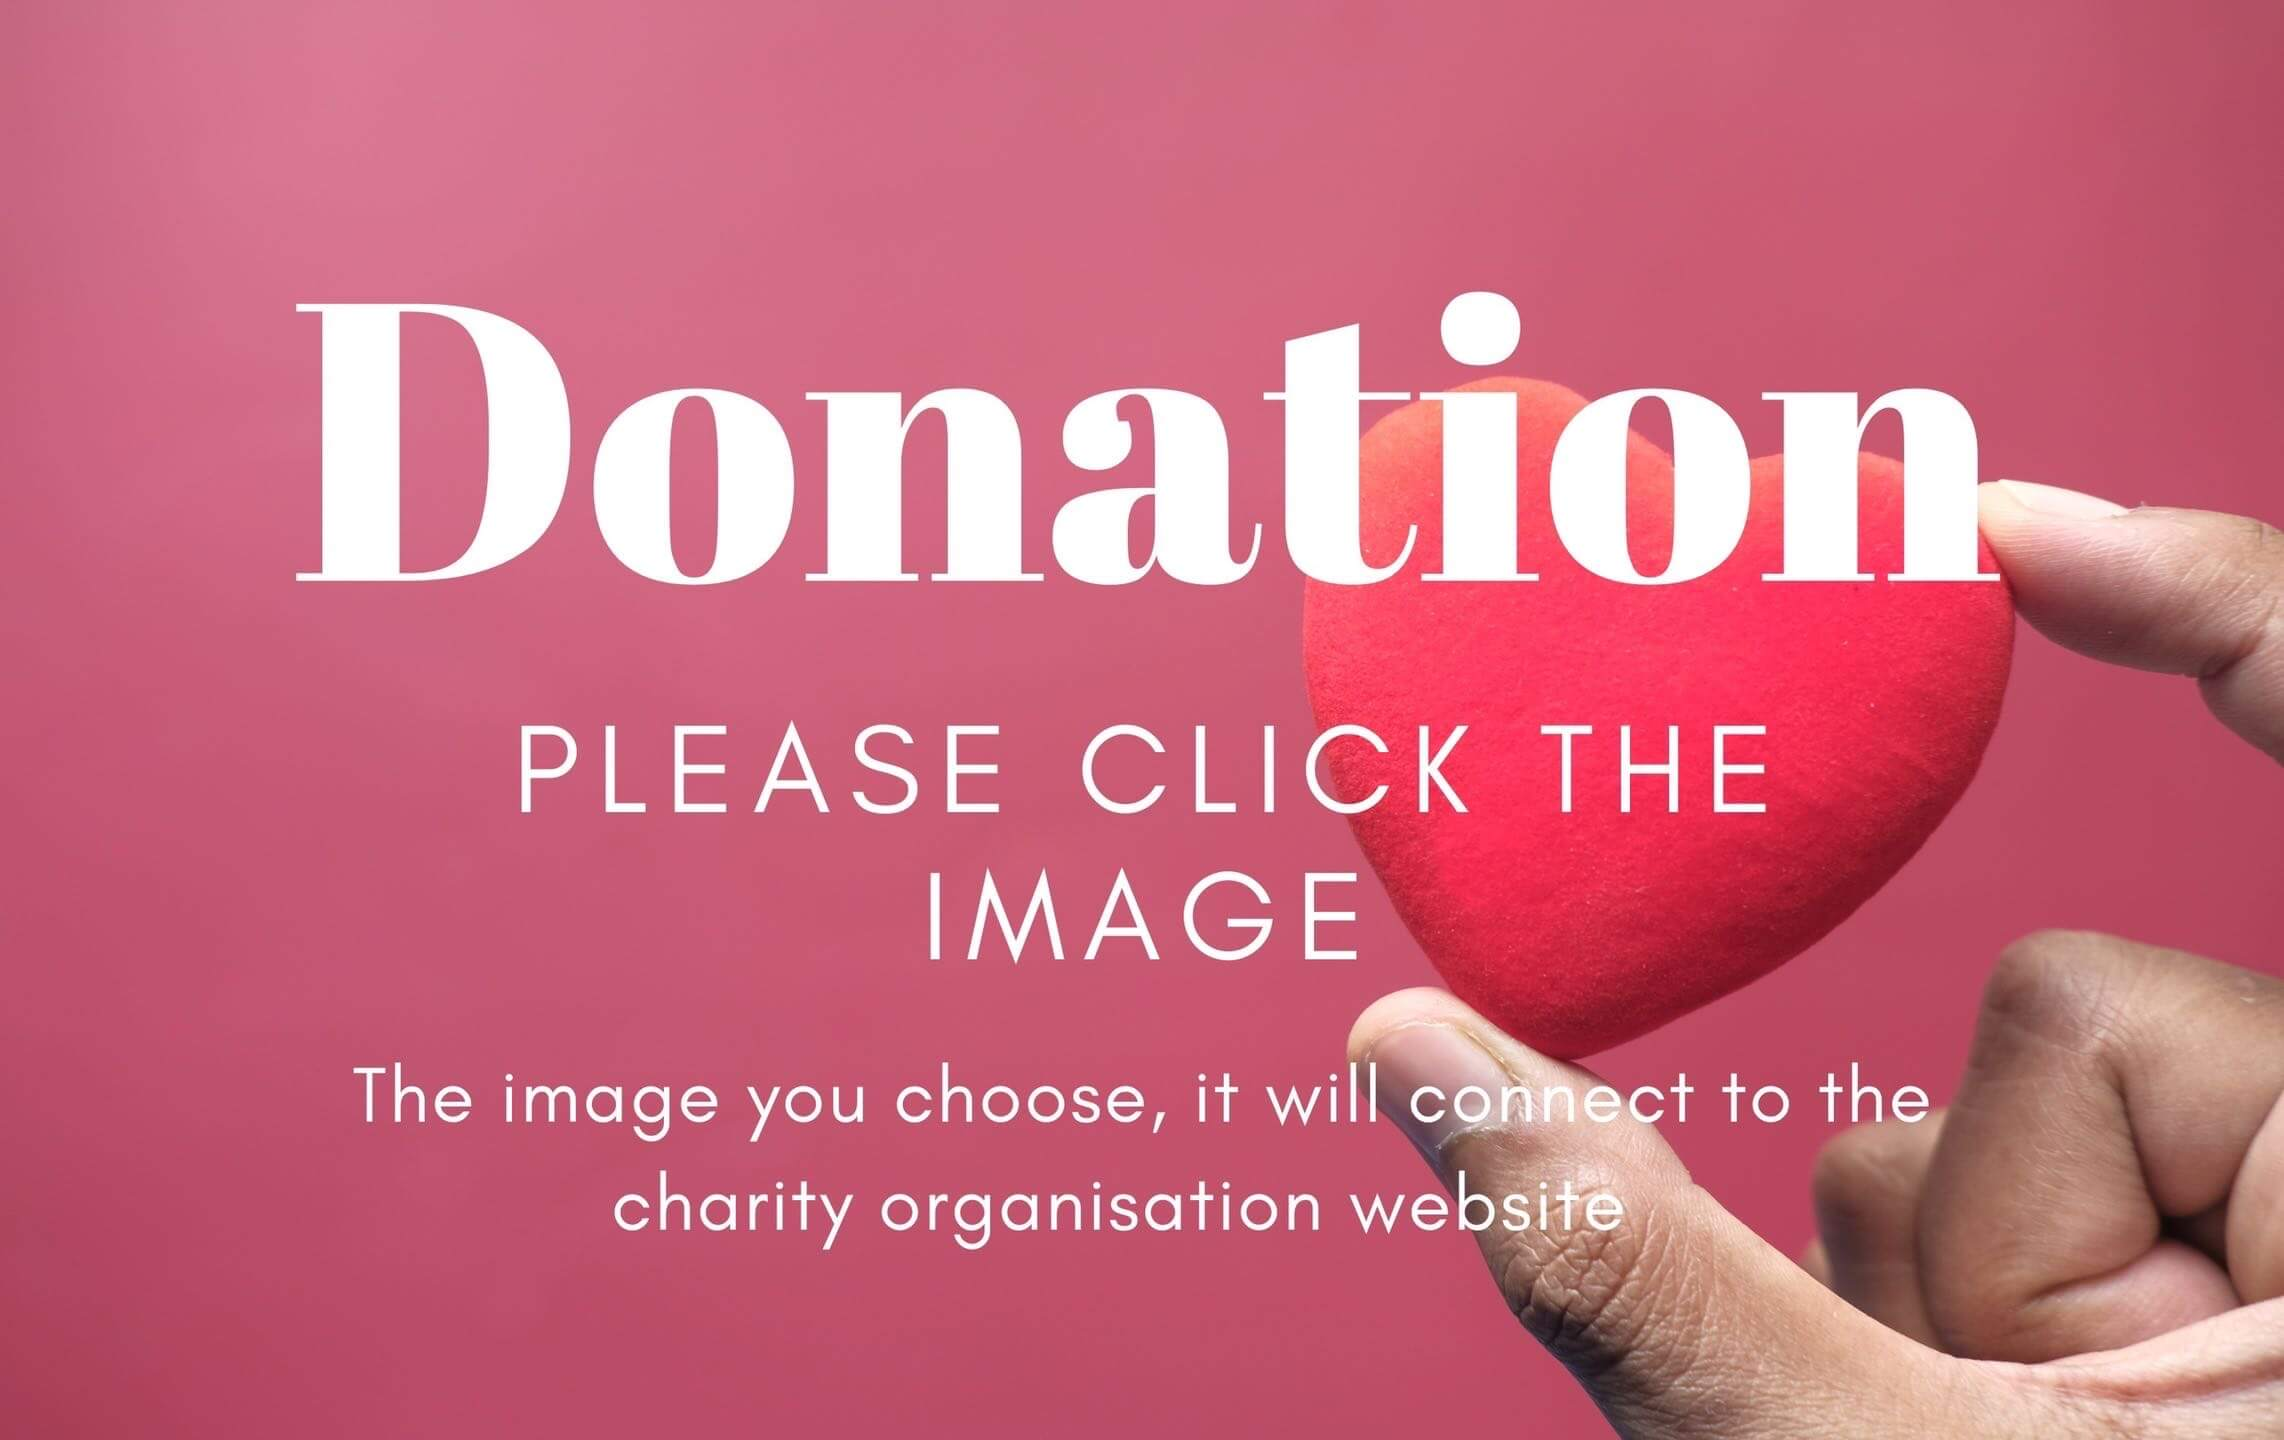
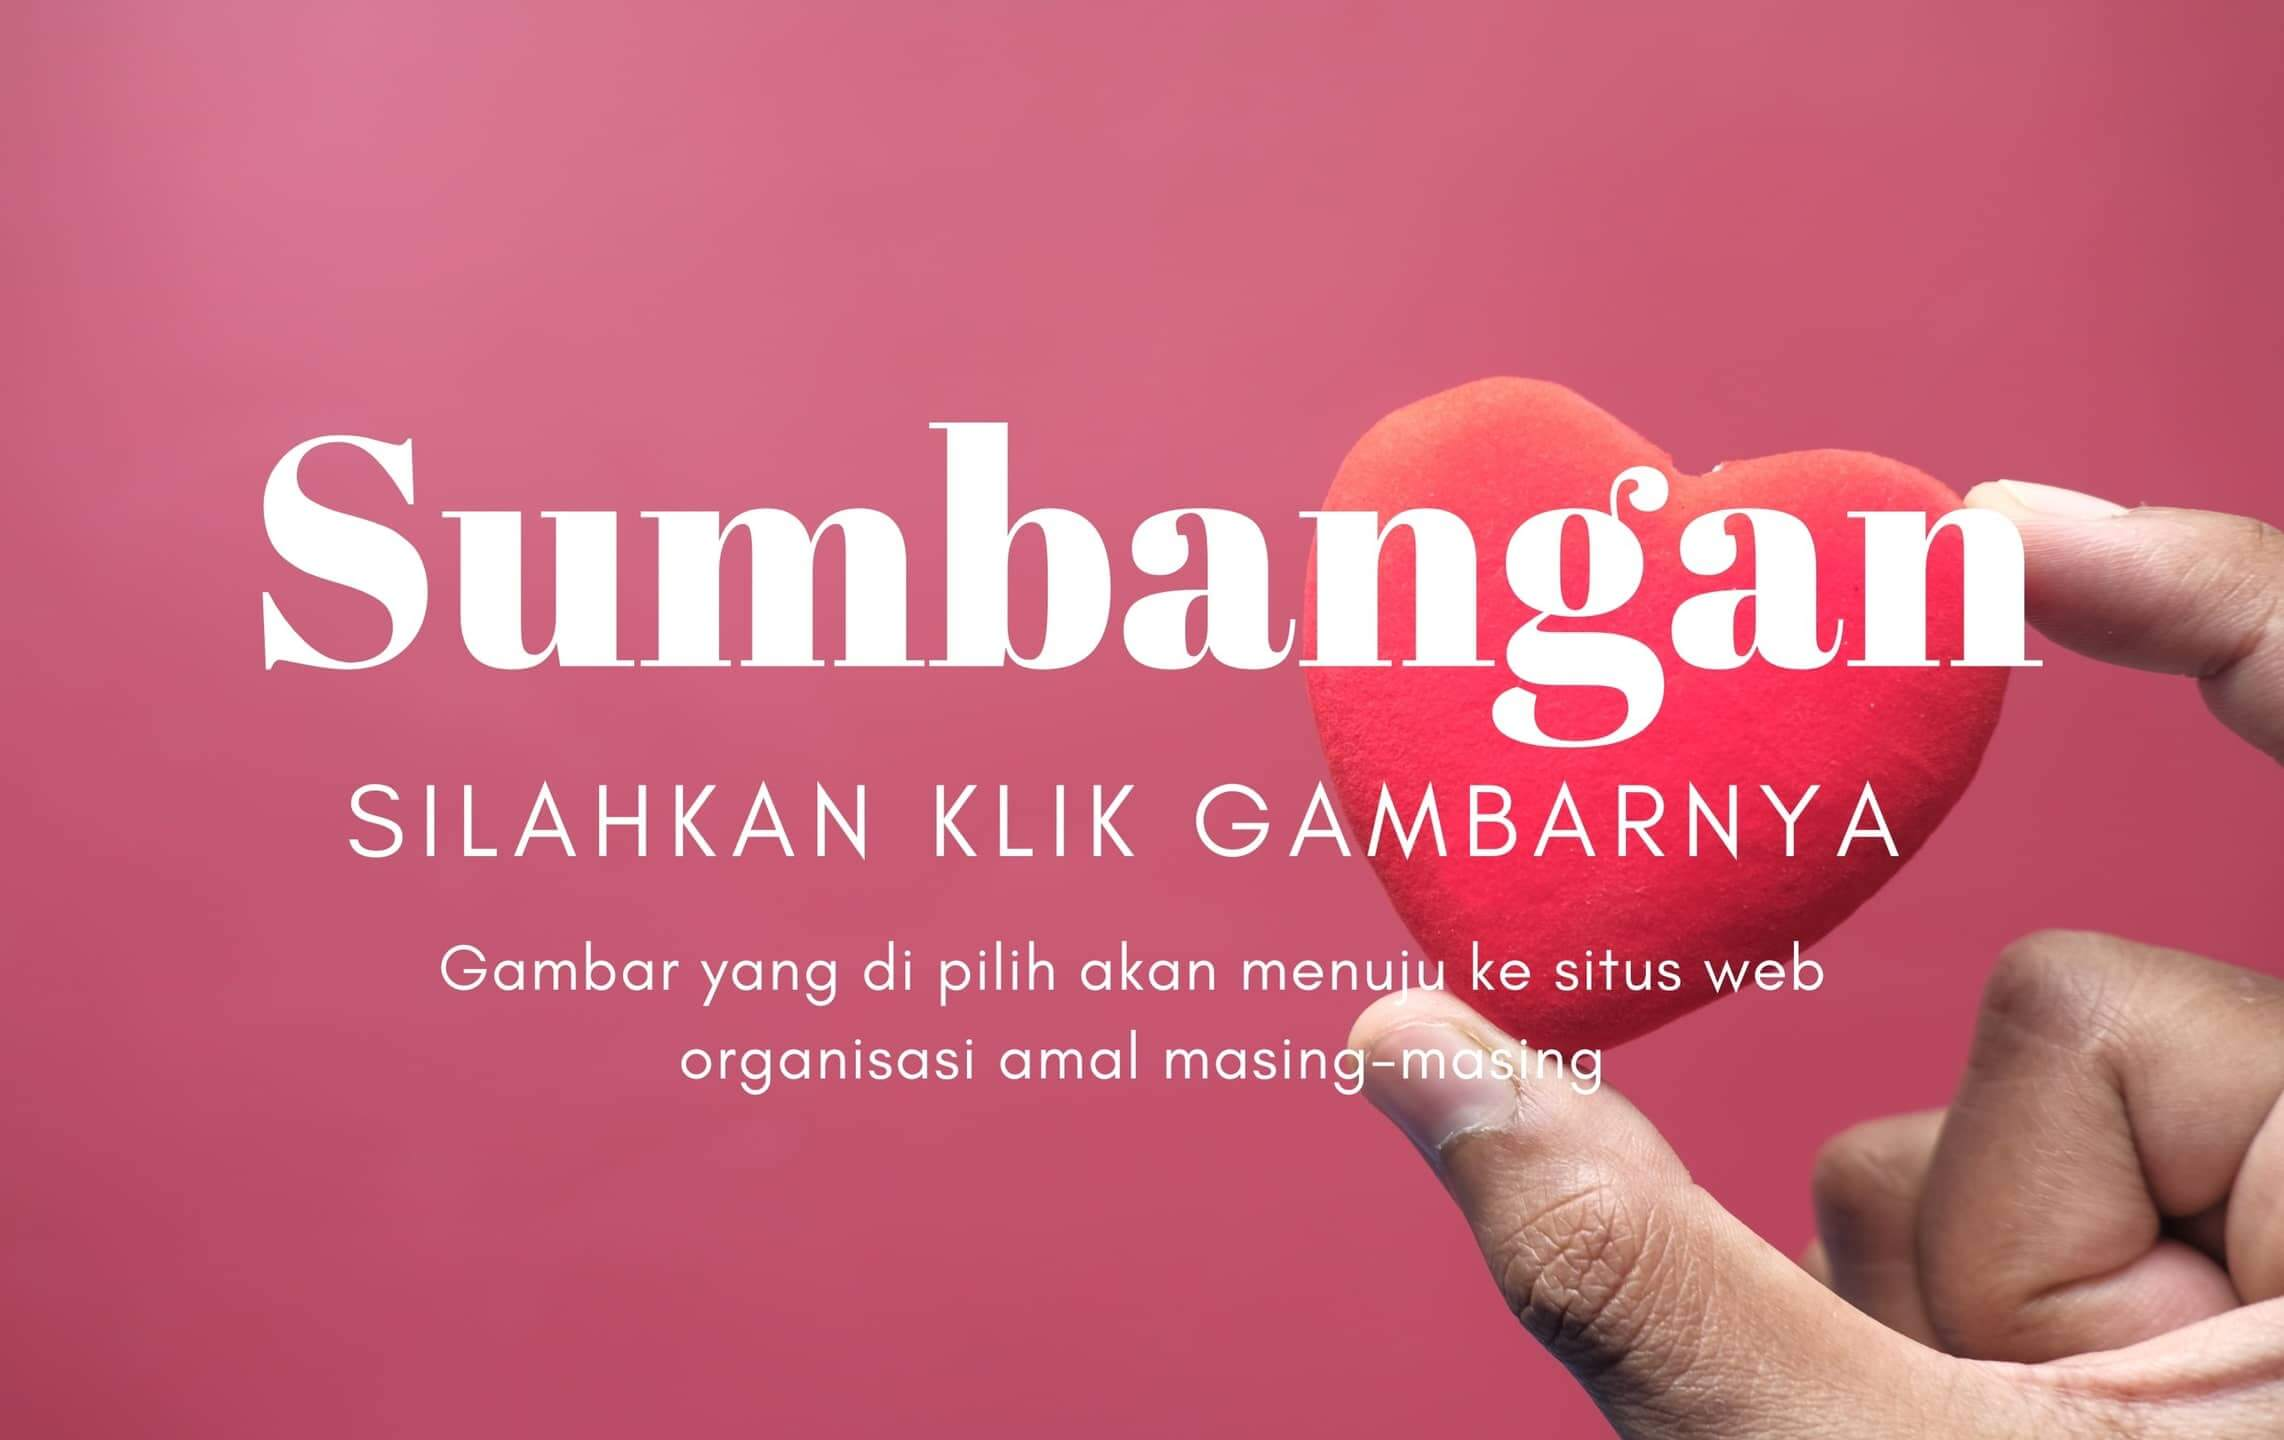
indonesian text

Changed region(s): [[0.0933, 0.1875, 0.9015, 0.875]]

diff --git a/client/src/components/StoryList/index.js b/client/src/components/StoryList/index.js
@@ -80,7 +80,7 @@ const StoryList = ({
                                             >
                                                 {story.storyAuthor} <br />
                                                 <span style={{ fontSize: '1rem' }}>
-                                                    posted this story on {story.createdAt}
+                                                    kirim kisah ini di {story.createdAt}
                                                 </span>
                                             </Link>
                                             <br/>
@@ -92,7 +92,7 @@ const StoryList = ({
                                     ):(
                                         <>
                                             <span style={{ fontSize: '1rem' }}>
-                                                You posted this story on {story.createdAt}
+                                                Kamu kirim kisah ini di {story.createdAt}
                                             </span>
                                         </>
                                     )}
@@ -126,14 +126,14 @@ const StoryList = ({
                                             >
                                                 {story.storyAuthor} <br />
                                                 <span style={{ fontSize: '1rem' }}>
-                                                    posted this story on {story.createdAt}
+                                                    kirim kisah ini di {story.createdAt}
                                                 </span>
                                             </Link>
                                         </>
                                     ):(
                                         <>
                                             <span style={{ fontSize: '1rem' }}>
-                                                You posted this story on {story.createdAt}
+                                                Kamu kirim kisah ini di {story.createdAt}
                                             </span>
                                         </>
                                     )}
@@ -154,7 +154,7 @@ const StoryList = ({
 
                                 <div className="col-12 col-lg-3">
                                 <button className="btn btn-primary btn-block py-3" type="submit">
-                                    Update Story
+                                    Memperbarui Kisah
                                 </button>
                                 </div>
                             </form>

diff --git a/client/src/components/Header/index.js b/client/src/components/Header/index.js
@@ -26,19 +26,19 @@ const Header = () => {
                     {Auth.loggedIn() ? (
                         <>
                             <Link className="btn btn-lg btn-info m-2" to="/me">
-                                {Auth.getProfile().data.username}'s profile
+                                {Auth.getProfile().data.username}
                             </Link>
                             <button className="btn btn-lg btn-light m-2" onClick={logout}>
-                                Logout
+                                Keluar
                             </button>
                         </>
                     ) : (
                         <>
                             <Link className="btn btn-lg btn-info m-2" to="/login">
-                                Login
+                                Masuk
                             </Link>
                             <Link className="btn btn-lg btn-light m-2" to="/signup">
-                                Signup
+                                Daftar
                             </Link>
                         </>
                     )}

diff --git a/client/src/components/CommentForm/index.js b/client/src/components/CommentForm/index.js
@@ -41,7 +41,7 @@ const CommentForm = ({ storyId, refetchStory }) => {
 
   return (
     <div>
-      <h4 >What are your thoughts on this story?</h4>
+      <h4 >Apa komentarmu terhadap kisah hidup ini?</h4>
 
       {Auth.loggedIn() ? (
         <>
@@ -70,15 +70,15 @@ const CommentForm = ({ storyId, refetchStory }) => {
 
             <div className="col-12 col-lg-3">
               <button className="btn btn-primary btn-block py-3" type="submit">
-                Add Comment
+                Memberi komentar
               </button>
             </div>
           </form>
         </>
       ) : (
         <p>
-          You need to be logged in to share your thoughts. Please{' '}
-          <Link to="/login">login</Link> or <Link to="/signup">signup.</Link>
+          Kamu perlu masuk untuk memberi komentar. Silahkan{' '}
+          <Link to="/login">masuk</Link> or <Link to="/signup">daftar.</Link>
         </p>
       )}
     </div>

diff --git a/client/src/pages/Profile.js b/client/src/pages/Profile.js
@@ -29,8 +29,8 @@ const Profile = () => {
   if (!user?.username) {
     return (
       <h4>
-        You need to be logged in to see this. Use the navigation links above to
-        sign up or log in!
+        Kamu harus masuk untuk melihat ini. Gunakan link navigasi diatas untuk
+        mendaftar atau masuk!
       </h4>
     );
   }
@@ -39,7 +39,7 @@ const Profile = () => {
     <div>
       <div className="flex-row justify-center mb-3">
         <h2 className="col-12 col-md-10 bg-dark text-light p-3 mb-5">
-          Viewing {userParam ? `${user.username}'s` : 'your'} profile.
+          Melihat Profil {userParam ? `${user.username}` : 'your'}.
         </h2>
 
         <div className="col-12 col-md-10 mb-5">

diff --git a/client/src/components/Hero/index.js b/client/src/components/Hero/index.js
@@ -96,7 +96,7 @@ const Hero = () => {
       }}
     />
             <div className="content">
-                <Link to="/Home" className="click"><p><img src={`${process.env.PUBLIC_URL}/img/bs.JPG`} alt="Bambang" width="500"/></p></Link>
+                <Link to="/Home" className="click"><p><img src={`${process.env.PUBLIC_URL}/img/bs.png`} alt="Bambang" width="500"/></p></Link>
                 <h5 className="text-center" style= {{color: "aliceblue", width: "80%", margin: "auto"}}>Berbagi kisah hidupmu untuk membantu 
                 mereka yang kesulitan untuk maju terus menjadi kuat dan positif hidupnya. Setiap kisah yang kita bagi
                 akan membuat mereka tidak merasa sendirian.</h5>

diff --git a/client/src/pages/Login.js b/client/src/pages/Login.js
@@ -48,8 +48,8 @@ const Login = (props) => {
           <div className="card-body">
             {data ? (
               <p>
-                Success! You may now head{' '}
-                <Link to="/">back to the homepage.</Link>
+                Berhasil! Kamu bisa memulai{' '}
+                <Link to="/">kembali ke halaman utama.</Link>
               </p>
             ) : (
               <form onSubmit={handleFormSubmit}>
@@ -74,7 +74,7 @@ const Login = (props) => {
                   style={{ cursor: 'pointer' }}
                   type="submit"
                 >
-                  Submit
+                  Kirimkan
                 </button>
               </form>
             )}

diff --git a/client/src/components/StoryUpdateForm.js/index.js b/client/src/components/StoryUpdateForm.js/index.js
@@ -81,7 +81,7 @@ const StoryUpdateForm = ({storyId, storyText}) => {
 
             <div className="col-12 col-lg-3">
               <button className="btn btn-primary btn-block py-3" type="submit">
-                Update Story
+                Memperbarui kisah
               </button>
             </div>
             {error && (
@@ -93,7 +93,7 @@ const StoryUpdateForm = ({storyId, storyText}) => {
         </>
       ) : (
         <p>
-          You need to be logged in to update story. Please{' '}
+          Kamu harus masuk untuk memperbarui kisah. Silahkan{' '}
           <Link to="/login">login</Link> or <Link to="/signup">signup.</Link>
         </p>
       )}

diff --git a/client/src/components/CommentList/index.js b/client/src/components/CommentList/index.js
@@ -2,7 +2,7 @@ import React from 'react';
 
 const CommentList = ({ comments = [] }) => {
   if (!comments.length) {
-    return <h3>No Comments Yet</h3>;
+    return <h3>Belum ada komentar</h3>;
   }
 
   return (
@@ -11,7 +11,7 @@ const CommentList = ({ comments = [] }) => {
         className="p-5 display-inline-block"
         style={{ borderBottom: '1px dotted #1a1a1a' }}
       >
-        Comments
+        Komentar
       </h3>
       <div className="flex-row my-4">
         {comments &&

diff --git a/client/src/components/StoryForm/index.js b/client/src/components/StoryForm/index.js
@@ -95,8 +95,8 @@ const StoryForm = () => {
         </>
       ) : (
         <p>
-          Kamu harus logged in untuk berbagi kisah. Silahkan{' '}
-          <Link to="/login">login</Link> or <Link to="/signup">signup.</Link>
+          Kamu harus masuk untuk berbagi kisah. Silahkan{' '}
+          <Link to="/login">masuk</Link> or <Link to="/signup">daftar.</Link>
         </p>
       )}
     </div>

diff --git a/client/src/pages/SingleStory.js b/client/src/pages/SingleStory.js
@@ -28,7 +28,7 @@ const SingleStory = () => {
       <h3 className="card-header bg-dark text-light p-2 m-0">
         {story.storyAuthor} <br />
         <span style={{ fontSize: '1rem' }}>
-          posted this story on {story.createdAt}
+          kirimkan kisah ini di {story.createdAt}
         </span>
       </h3>
       <div className="bg-light py-4">

diff --git a/client/src/components/Footer/index.js b/client/src/components/Footer/index.js
@@ -12,7 +12,7 @@ const Footer = () => {
               className="btn btn-dark mb-3"
               onClick={() => navigate(-1)}
             >
-              &larr; Go Back
+              &larr; Kembali
             </button>
           )}
       <nav className="container-fluid navbar navbar-expand-sm justify-content-center">

diff --git a/client/src/pages/Signup.js b/client/src/pages/Signup.js
@@ -80,7 +80,7 @@ const Signup = () => {
                   style={{ cursor: 'pointer' }}
                   type="submit"
                 >
-                  Submit
+                  Kirimkan
                 </button>
               </form>
             )}
